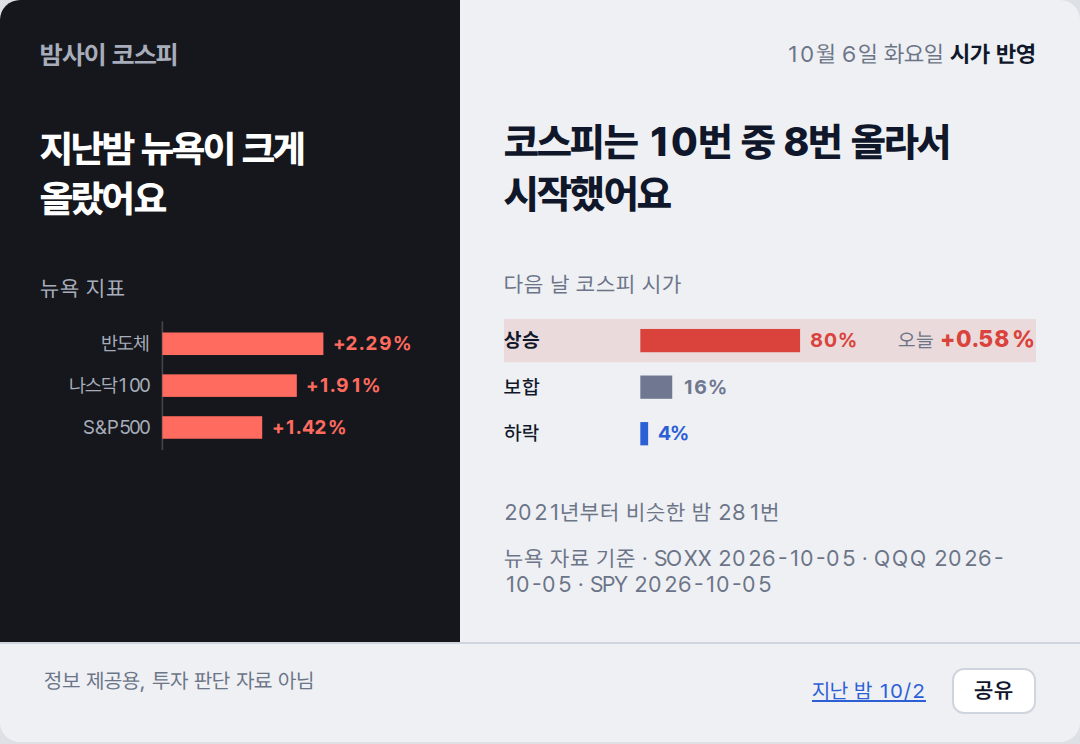
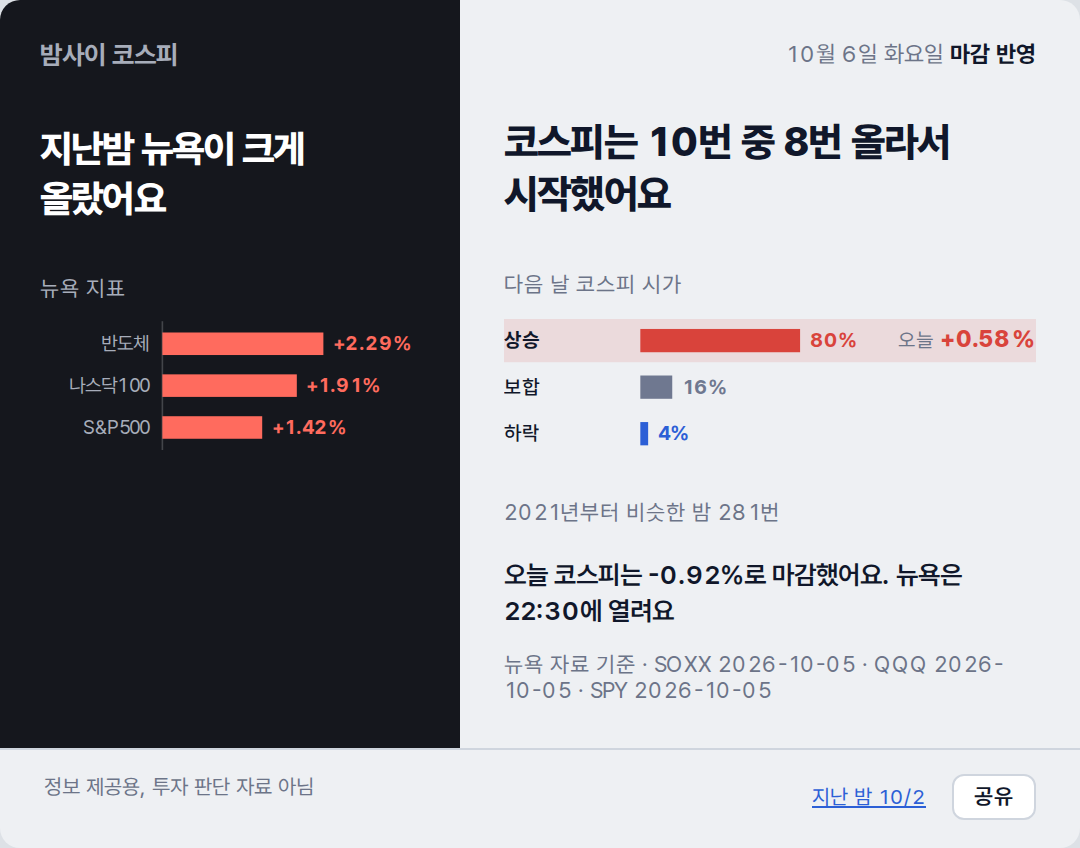
deploy: c0d07a214321b41f7cf333fef670b17ffe5b5852

diff --git a/2026-10-06/index.html b/2026-10-06/index.html
@@ -38,7 +38,7 @@ footer a{color:#2C5FD6}
 <rect x="76" y="61" width="62.0" height="14" fill="var(--up)"/>
 <text x="144.0" y="72" fill="var(--up)" font-weight="700">+1.42%</text>
 </svg></section>
-<section class="day"><p class="stamp">10월 6일 화요일 <b>시가 반영</b></p><p class="claim">코스피는 10번 중 8번 올라서 시작했어요</p><p class="lab">다음 날 코스피 시가</p><svg viewBox="0 0 320 100" xmlns="http://www.w3.org/2000/svg" font-family="var(--sans)" font-size="12">
+<section class="day"><p class="stamp">10월 6일 화요일 <b>마감 반영</b></p><p class="claim">코스피는 10번 중 8번 올라서 시작했어요</p><p class="lab">다음 날 코스피 시가</p><svg viewBox="0 0 320 100" xmlns="http://www.w3.org/2000/svg" font-family="var(--sans)" font-size="12">
 <rect x="0" y="3" width="320" height="26" fill="var(--up)" opacity=".12"/>
 <text x="0" y="20" fill="var(--ink)" font-weight="700">상승</text>
 <rect x="82" y="9" width="96.1" height="14" fill="var(--up)"/>
@@ -50,7 +50,7 @@ footer a{color:#2C5FD6}
 <text x="0" y="76" fill="var(--ink)" font-weight="500">하락</text>
 <rect x="82" y="65" width="4.7" height="14" fill="var(--down)"/>
 <text x="92.7" y="76" fill="var(--down)" font-weight="700">4%</text>
-</svg><p class="cap">2021년부터 비슷한 밤 281번</p><p class="cap">뉴욕 자료 기준 · SOXX 2026-10-05 · QQQ 2026-10-05 · SPY 2026-10-05</p></section>
+</svg><p class="cap">2021년부터 비슷한 밤 281번</p><p class="tail">오늘 코스피는 -0.92%로 마감했어요. 뉴욕은 22:30에 열려요</p><p class="cap">뉴욕 자료 기준 · SOXX 2026-10-05 · QQQ 2026-10-05 · SPY 2026-10-05</p></section>
 <footer><span>정보 제공용, 투자 판단 자료 아님</span><span style="white-space:nowrap"><a href="../2026-10-02/">지난 밤 10/2</a> <button class="share" type="button">공유</button></span></footer>
 <script>
 /* 공유: Web Share가 있으면 시스템 공유 시트, 없으면 링크 복사. 링크는 이 날짜 페이지(OG 카드 붙음) */

diff --git a/index.html b/index.html
@@ -38,7 +38,7 @@ footer a{color:#2C5FD6}
 <rect x="76" y="61" width="62.0" height="14" fill="var(--up)"/>
 <text x="144.0" y="72" fill="var(--up)" font-weight="700">+1.42%</text>
 </svg></section>
-<section class="day"><p class="stamp">10월 6일 화요일 <b>시가 반영</b></p><p class="claim">코스피는 10번 중 8번 올라서 시작했어요</p><p class="lab">다음 날 코스피 시가</p><svg viewBox="0 0 320 100" xmlns="http://www.w3.org/2000/svg" font-family="var(--sans)" font-size="12">
+<section class="day"><p class="stamp">10월 6일 화요일 <b>마감 반영</b></p><p class="claim">코스피는 10번 중 8번 올라서 시작했어요</p><p class="lab">다음 날 코스피 시가</p><svg viewBox="0 0 320 100" xmlns="http://www.w3.org/2000/svg" font-family="var(--sans)" font-size="12">
 <rect x="0" y="3" width="320" height="26" fill="var(--up)" opacity=".12"/>
 <text x="0" y="20" fill="var(--ink)" font-weight="700">상승</text>
 <rect x="82" y="9" width="96.1" height="14" fill="var(--up)"/>
@@ -50,7 +50,7 @@ footer a{color:#2C5FD6}
 <text x="0" y="76" fill="var(--ink)" font-weight="500">하락</text>
 <rect x="82" y="65" width="4.7" height="14" fill="var(--down)"/>
 <text x="92.7" y="76" fill="var(--down)" font-weight="700">4%</text>
-</svg><p class="cap">2021년부터 비슷한 밤 281번</p><p class="cap">뉴욕 자료 기준 · SOXX 2026-10-05 · QQQ 2026-10-05 · SPY 2026-10-05</p></section>
+</svg><p class="cap">2021년부터 비슷한 밤 281번</p><p class="tail">오늘 코스피는 -0.92%로 마감했어요. 뉴욕은 22:30에 열려요</p><p class="cap">뉴욕 자료 기준 · SOXX 2026-10-05 · QQQ 2026-10-05 · SPY 2026-10-05</p></section>
 <footer><span>정보 제공용, 투자 판단 자료 아님</span><span style="white-space:nowrap"><a href="./2026-10-02/">지난 밤 10/2</a> <button class="share" type="button">공유</button></span></footer>
 <script>
 /* 공유: Web Share가 있으면 시스템 공유 시트, 없으면 링크 복사. 링크는 이 날짜 페이지(OG 카드 붙음) */
